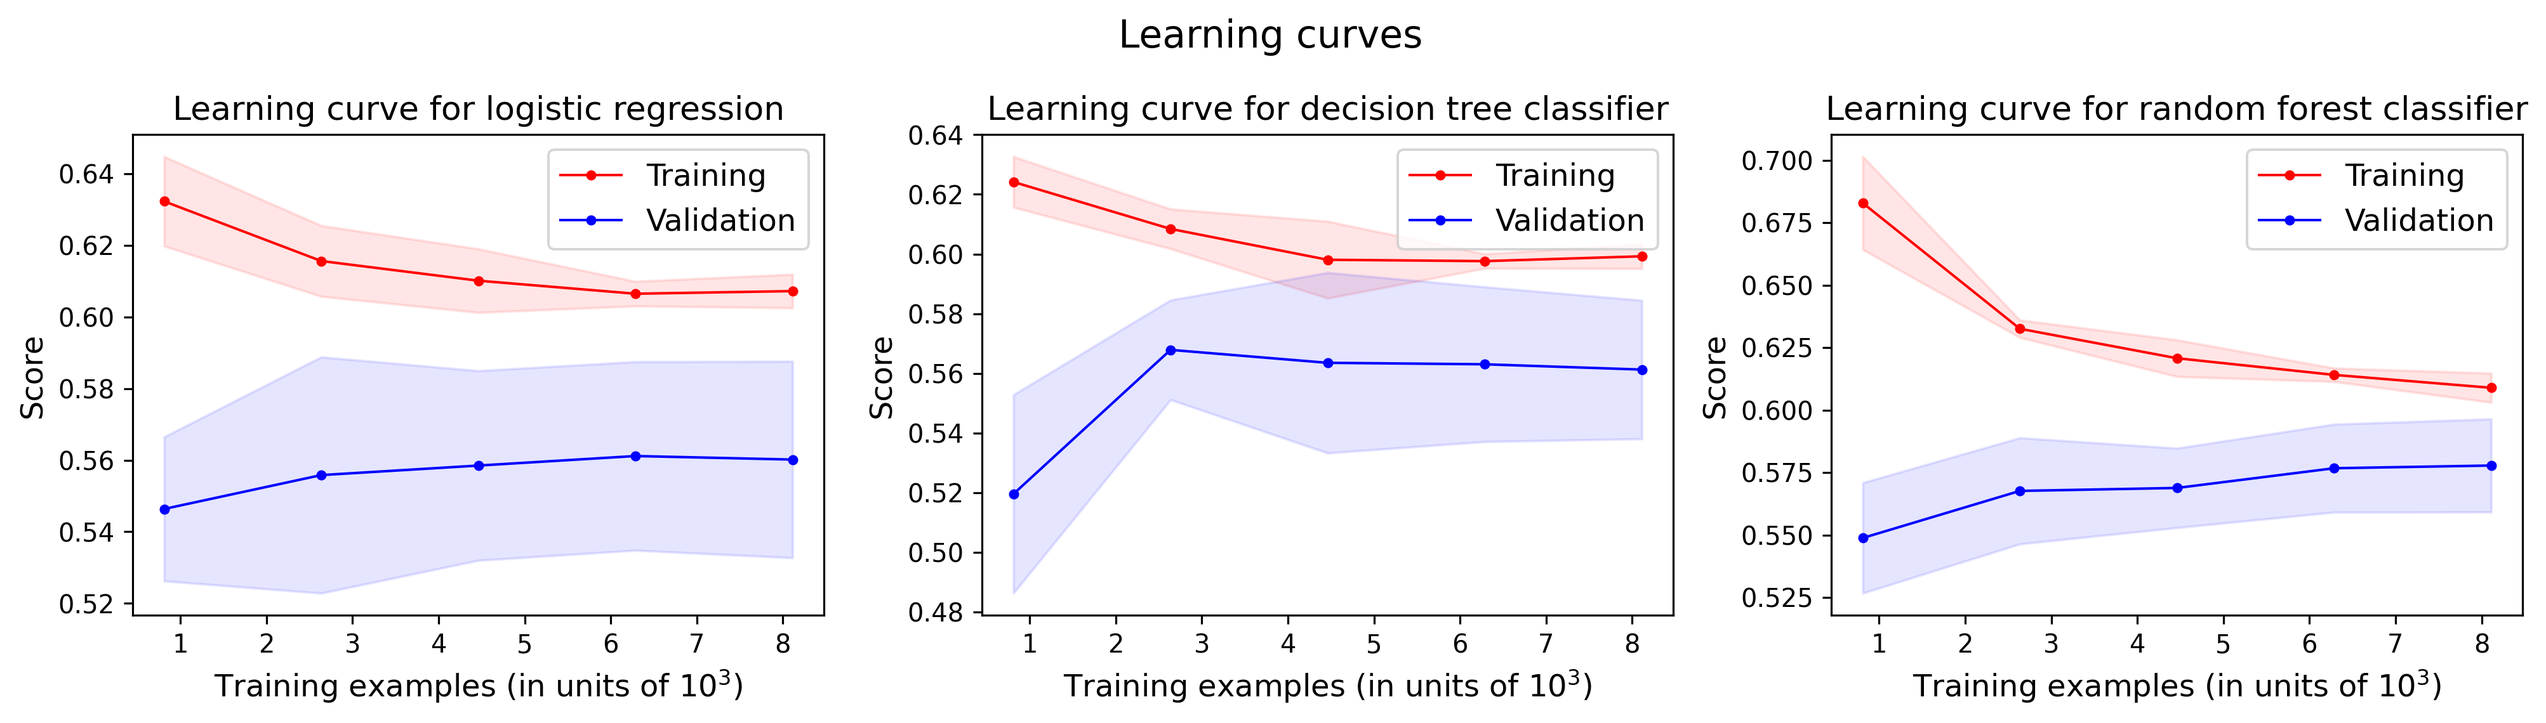
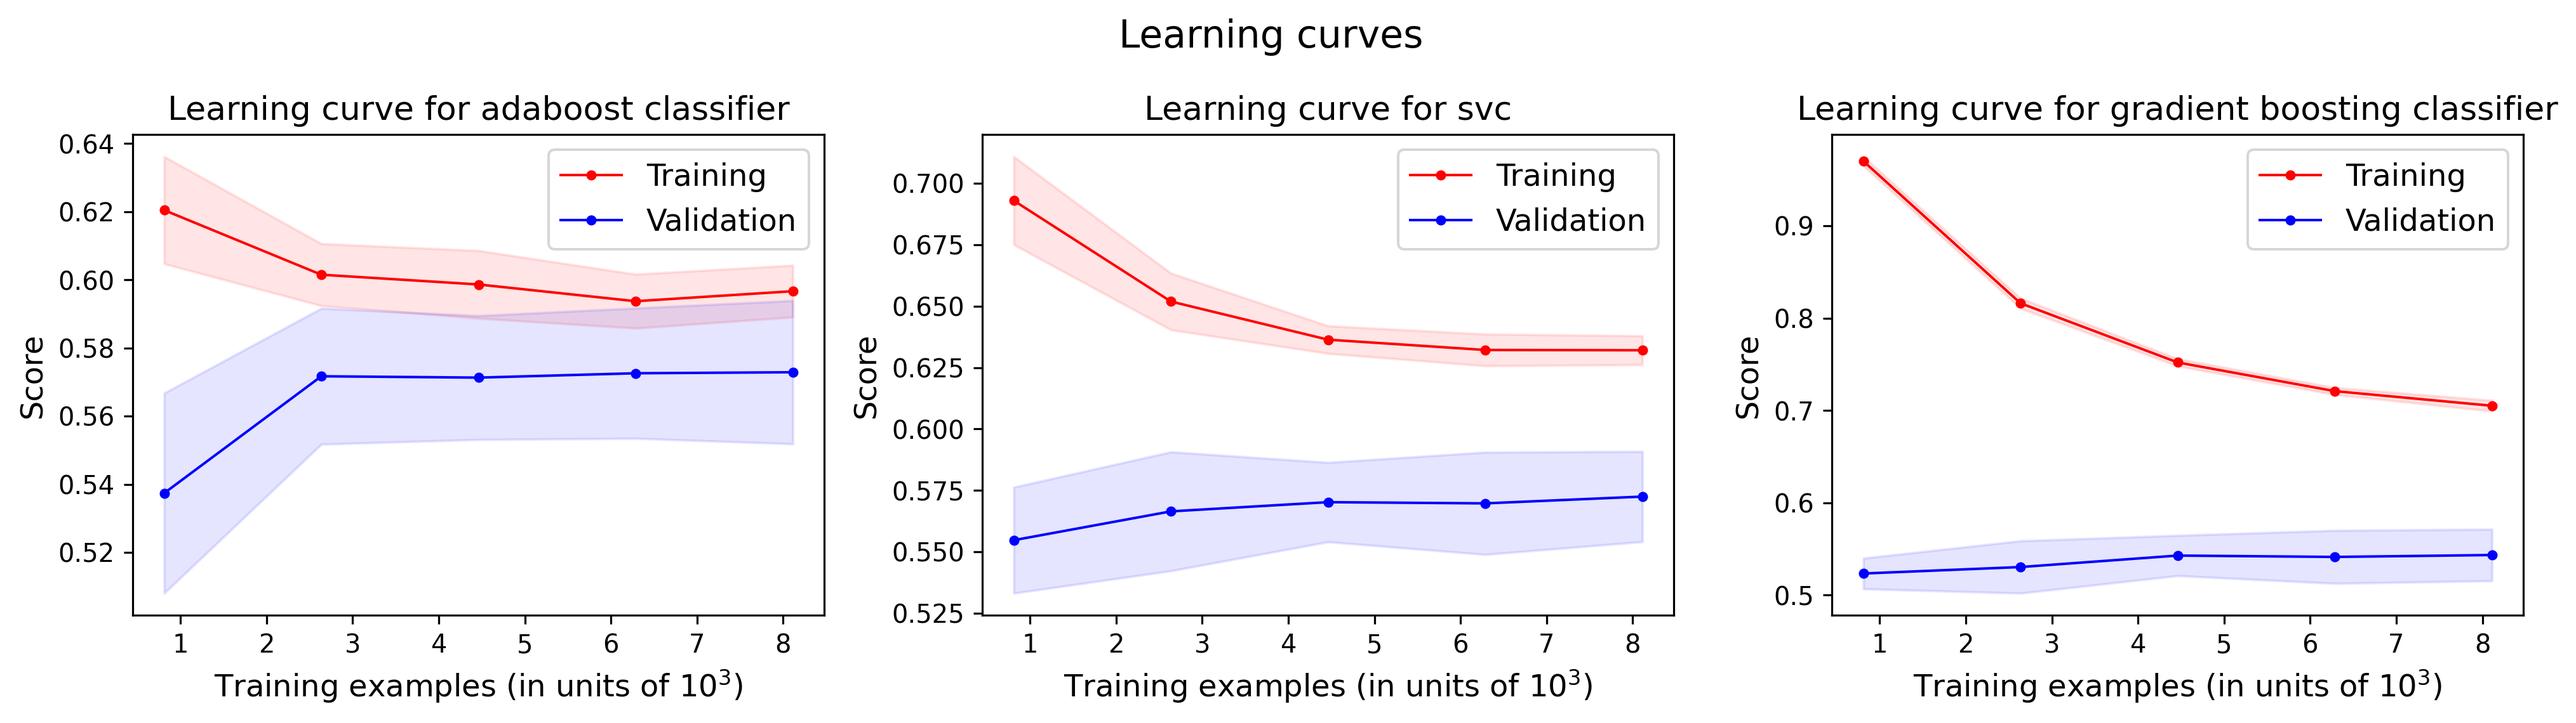
Learning curves for AdaBoost, SVC and GB using best parameters

diff --git a/learning_curves_plot.py b/learning_curves_plot.py
@@ -11,9 +11,12 @@ from sklearn.compose import (make_column_selector,
 from sklearn.preprocessing import StandardScaler, OneHotEncoder
 from sklearn.pipeline import make_pipeline
 from imblearn.under_sampling import RandomUnderSampler
-from sklearn.ensemble import RandomForestClassifier
 from sklearn.tree import DecisionTreeClassifier
 from sklearn.linear_model import LogisticRegression
+from sklearn.ensemble import (RandomForestClassifier,
+                              AdaBoostClassifier,
+                              GradientBoostingClassifier)
+from sklearn.svm import SVC
 import matplotlib.pyplot as plt
 from matplotlib import ticker
 
@@ -78,24 +81,46 @@ def learning_curves_data(estimator, X, y, cv=5, train_sizes=tr_arr):
 with open('params.json', 'r') as f:
     model_params = json.load(f)
 
-model_dict = {
-    'Logistic regression': LogisticRegression(
-        n_jobs=-1, max_iter=4000,
-        C=model_params['params_lr']['C'],
-        solver='newton-cholesky'
+########################################
+use_models_that_prioritize_recall = True
+########################################
+if use_models_that_prioritize_recall:
+    model_dict = {
+        'AdaBoost Classifier': AdaBoostClassifier(
+            algorithm='SAMME',
+            n_estimators=model_params['params_ad']['n_estimators'],
+            learning_rate=model_params['params_ad']['learning_rate'],
+            random_state=model_params['params_ad']['random_state'],
+            ),
+        'SVC': SVC(
+            probability=True,
+            C=model_params['params_svc']['C'],
+            random_state=model_params['params_svc']['random_state'],
+            ),
+        'Gradient Boosting Classifier': GradientBoostingClassifier(
+            learning_rate=model_params['params_gb']['learning_rate'],
+            random_state=model_params['params_gb']['random_state'],
         ),
-    'Decision tree classifier': DecisionTreeClassifier(
-        max_depth=model_params['params_dt']['max_depth'],
-        min_samples_split=model_params['params_dt']['min_samples_split'],
-        random_state=model_params['params_dt']['random_state'],
-        ),
-    'Random forest classifier': RandomForestClassifier(
-        n_jobs=-1,
-        n_estimators=model_params['params_rf']['n_estimators'],
-        max_depth=model_params['params_rf']['max_depth'],
-        random_state=model_params['params_rf']['random_state'],
-        )
     }
+else:
+    model_dict = {
+        'Logistic regression': LogisticRegression(
+            n_jobs=-1, max_iter=4000,
+            C=model_params['params_lr']['C'],
+            solver='newton-cholesky'
+            ),
+        'Decision tree classifier': DecisionTreeClassifier(
+            max_depth=model_params['params_dt']['max_depth'],
+            min_samples_split=model_params['params_dt']['min_samples_split'],
+            random_state=model_params['params_dt']['random_state'],
+            ),
+        'Random forest classifier': RandomForestClassifier(
+            n_jobs=-1,
+            n_estimators=model_params['params_rf']['n_estimators'],
+            max_depth=model_params['params_rf']['max_depth'],
+            random_state=model_params['params_rf']['random_state'],
+            )
+        }
 
 fig, axes = plt.subplots(1, 3, figsize=(14, 4))
 for ax, (model_name, model_instance) in zip(axes, model_dict.items()):
